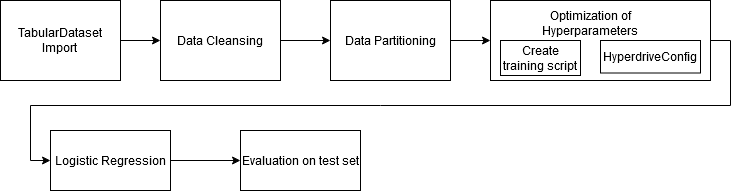
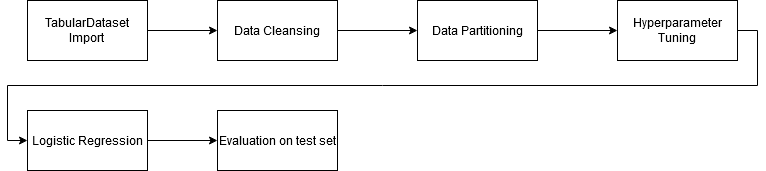
updated readme

diff --git a/README.md b/README.md
@@ -6,26 +6,60 @@ In this project, we build and optimize an Azure ML pipeline using the Python SDK
 This model is then compared to an Azure AutoML run.
 
 ## Summary
-**In 1-2 sentences, explain the problem statement: e.g "This dataset contains data about... we seek to predict..."**
+This dataset is related with a direct marketing campaigns of a Portuguese bank. We seek to predict if a customer will subscribe 
+a term deposit. Knowing this prediction saves the banking company a lot of time and money because only customers with a high likelihood
+of subscribing to the bank product are contacted via phone and informed about the term deposit. 
+To obtain our prediction we will compare a hyperparameter-tuned scikit-learn logistic regression model to a classification model created by Azure AutoML.
 
-**In 1-2 sentences, explain the solution: e.g. "The best performing model was a ..."**
+The best performing model is a hyperparameter-tuned logistic regression with a inverse regularization strength (C) of 0.73 and 300 maximal iterations (max_iter).
 
 ## Scikit-learn Pipeline
-**Explain the pipeline architecture, including data, hyperparameter tuning, and classification algorithm.**
 
-**What are the benefits of the parameter sampler you chose?**
+In this section I describe the pipeline architecture using the scikit-learn logistic regression classifier, which is displayed in the following flowchart.
+![scikit-learn pipeline](./figures/Pipeline_MLProject1.png).
+First the data is loaded from a csv file located in the Internet into TabularDataset. We use TabularDatasetFactory's from_delimited_files method for this task by specifying 
+a URL of the csv file as a parameter of the function. After that the data set is cleaned using the clean_data function supplied by Udacity. Now the dataset is divided into a 
+training set and a test set using the train_test_split function by scikit-learn. 
 
-**What are the benefits of the early stopping policy you chose?**
+Before we could start with hyperparameter tuning we have to set up a train.py script which is executed each hyperdrive run. Here we load the data, clean and divide it into train and test sets 
+and train the scikit-learn logistic regression algorithm using parameters supplied as arguments of the training script.
+After the training process the performance of the classification on the test set is evaluated and stored in a log file. 
+
+In the jupyter notebook we create an SKLearn estimator specifying the directory and name of the training script created in the last step and the compute target where the compution should be executed. 
+Because of errors in earlier runs it is neccessary to specify pyarrow and pyspark as additional pip packages, which are added to the docker container created by AzureML when executing the pipeline.
+
+You have to specify a hyperparameter sampling strategy to sample the hyperparameters and an early stopping policy to stop runs with a bad performance.
+I used RandomParameterSampling as hyperparameter sampling strategy, because it is computationally efficient and offers a good chance to find the optimum compared to a grid search. Another parameter sampler 
+is BayesianParameterSampling, but this strategy does not support early stopping, because it uses former runs to improve the hyperparameter sampling.
+
+The next important parameter of the Hyperdrive configuration is the early stopping policy. Here I chose the BanditPolicy with a delay of three runs and a slack_factor of 1%.
+The bandit policy cancels a run if the difference of the specified metric of this run to the best run is higher than 1%. This leads to quicker computation times and lower expenses because runs with a smaller performance are stopped.
+
+As the last step the experiment is submitted by passing the hyperdrive config as an argument to the submit method of the experiment object. We could see the results using the 
+RunDetails class. As you can see in the model output in the jupyter notebook the best hyperdrive run has an accuracy of 0.9163 and uses 0.73 and 300 as hyperparameters for C and max_iter.
+The best model is saved using joblib and registered in Azure.
 
 ## AutoML
-**In 1-2 sentences, describe the model and hyperparameters generated by AutoML.**
+AutoML allows us to automatically train multiple models and their hyperparameters which are compared using the metric specified. To use AutoML an AutoML config has to be specified. In this configwe specify that 
+SVMs should be blocked because it takes too much time to train them. 
+The best model returned by AutoML is a Voting Ensemble method which means that multiple models are used to determine the class of each instance. This practice is called ensemble methods.
+The TOP3 important features are the duration (duration of last call in seconds), the number of employees and the employment variation rate as you could see in the following plot.
+![feature importance](./figures/feature_importance.png)
 
 ## Pipeline comparison
-**Compare the two models and their performance. What are the differences in accuracy? In architecture? If there was a difference, why do you think there was one?**
+The difference in accuracy between the best hyperparameter-tuned scikit-learn logistic regression model and the Voting Ensemble model from AutoML is very small (0.9163 vs. 0.9161). In my opinion this difference is neglectable and occurs due to randomness.
+The major difference in architecture of the two models is that the logistic regression uses only one model to decide if a person will subscribe to the term deposit and the AutoML model uses multiple models for this purpose. Their predictions are aggregated using a majority vote principle.
+ 
 
 ## Future work
-**What are some areas of improvement for future experiments? Why might these improvements help the model?**
+As you could see in the output of the AutoML run the dataset is imbalanced which influences the model performance negatively. To get rid of this influence you could under- or oversample the dataset. 
+By resampling the dataset the distribution of the target will be equal. The model performance increases because the model is trained on a dataset without a minority class.
 
-## Proof of cluster clean up
-**If you did not delete your compute cluster in the code, please complete this section. Otherwise, delete this section.**
-**Image of cluster marked for deletion**
+Another area of improvement lies in the choice of the primary metric. Accuracy is calculated by dividing the correct classified instances by the number of total instances. Because of that 
+imbalanced datasets lead to a high accuracy value. If you use a more robust metric like the area under curve (AUC), the area under the precision recall curve (AUPRC) or the f_1 metric you will get an 
+unbiased information about the performance of your model.
+
+The last point I want to elaborate on is the high correlation between the feature duration and the target variable class, which is referenced here https://archive.ics.uci.edu/ml/datasets/Bank+Marketing
+The high correlation could lead to a overestimation of model performance. In addition the duration of the contact is not known before the call, so that variable is not helpful when predicting the output 
+on customers. Because of these reasons I would exclude this variable in further experiments.
+
